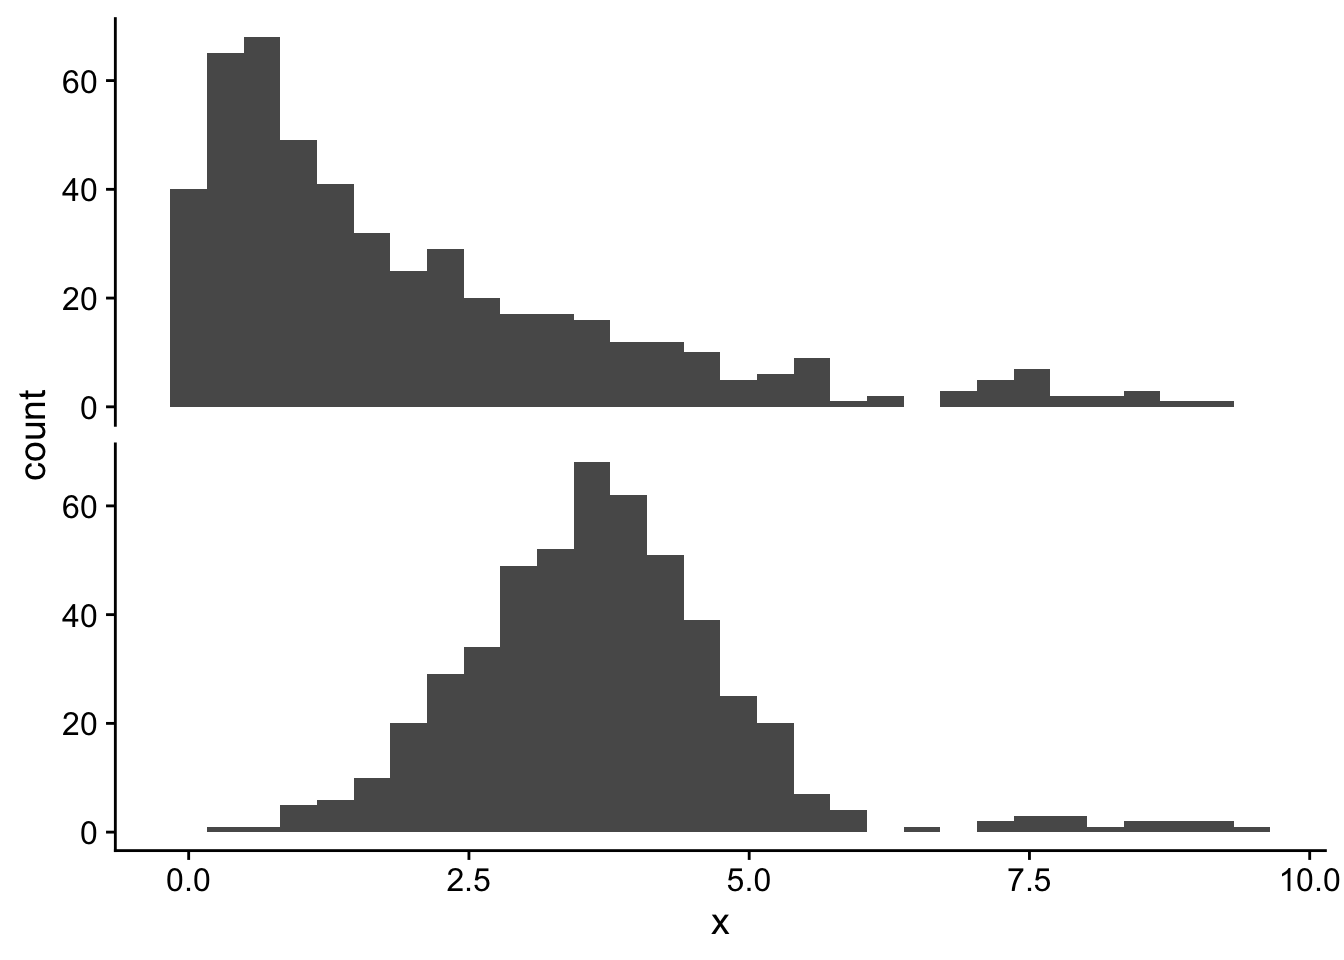
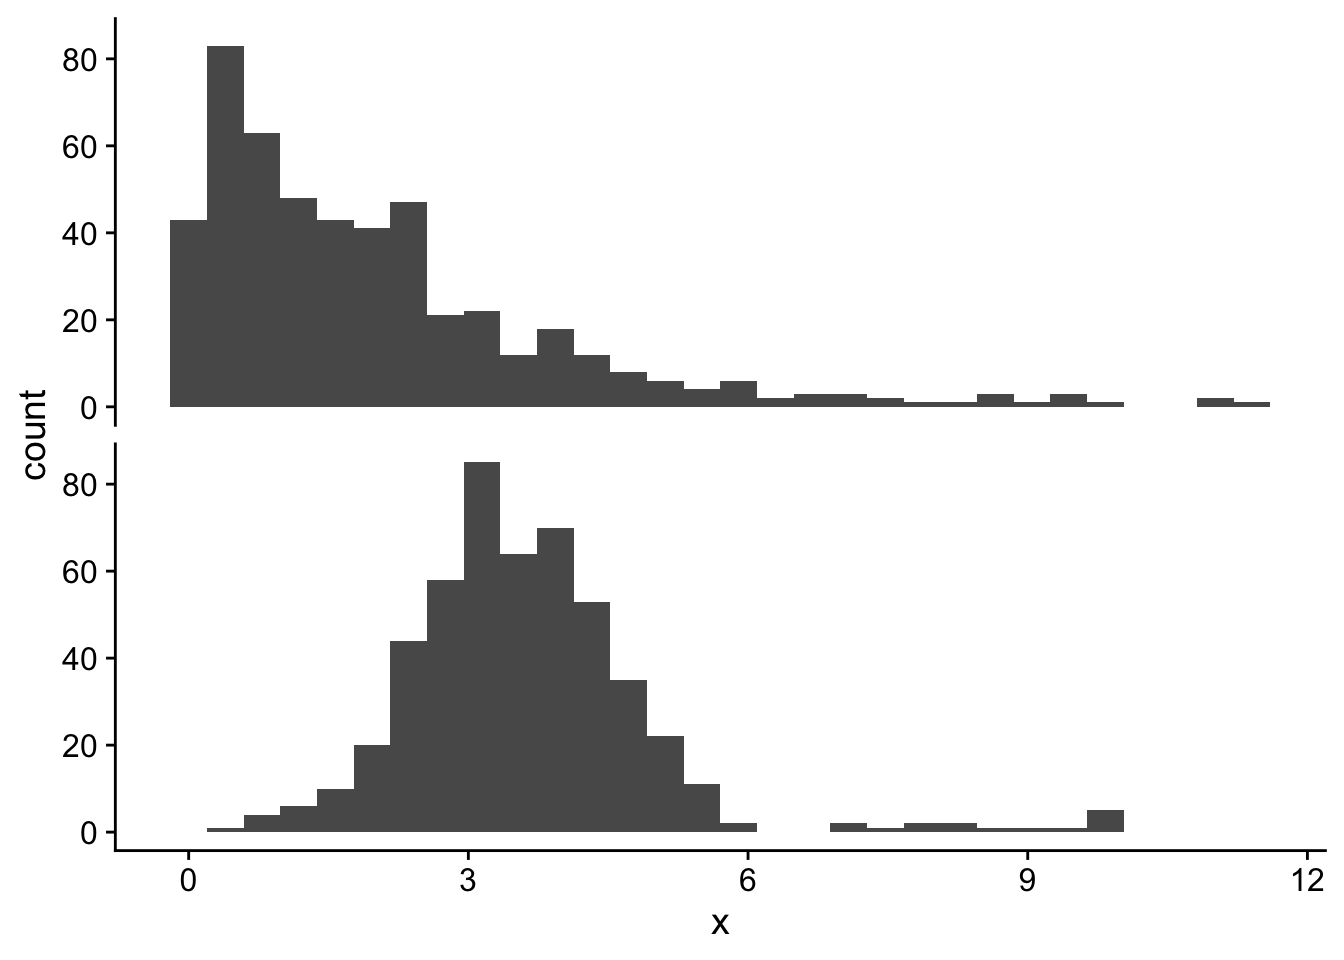
removing answer code

diff --git a/docs/lab06.html b/docs/lab06.html
@@ -192,9 +192,9 @@ pre > code.sourceCode > span > a:first-child::before { text-decoration: underlin
   <ul class="collapse">
   <li><a href="#describing-the-location-of-data" id="toc-describing-the-location-of-data" class="nav-link" data-scroll-target="#describing-the-location-of-data"><span class="header-section-number">6.2.1</span> Describing the <strong>location</strong> of data</a></li>
   <li><a href="#describing-the-spread-of-data" id="toc-describing-the-spread-of-data" class="nav-link" data-scroll-target="#describing-the-spread-of-data"><span class="header-section-number">6.2.2</span> Describing the <strong>spread</strong> of data</a></li>
+  <li><a href="#describing-our-confidence-in-estimates" id="toc-describing-our-confidence-in-estimates" class="nav-link" data-scroll-target="#describing-our-confidence-in-estimates"><span class="header-section-number">6.2.3</span> Describing our confidence in estimates</a></li>
   </ul></li>
-  <li><a href="#describing-our-confidence-in-estimates" id="toc-describing-our-confidence-in-estimates" class="nav-link" data-scroll-target="#describing-our-confidence-in-estimates"><span class="header-section-number">6.3</span> Describing our confidence in estimates</a></li>
-  <li><a href="#questions" id="toc-questions" class="nav-link" data-scroll-target="#questions"><span class="header-section-number">6.4</span> Questions</a></li>
+  <li><a href="#questions" id="toc-questions" class="nav-link" data-scroll-target="#questions"><span class="header-section-number">6.3</span> Questions</a></li>
   </ul>
 </nav>
     </div>
@@ -287,11 +287,11 @@ pre > code.sourceCode > span > a:first-child::before { text-decoration: underlin
 <span id="cb5-7"><a href="#cb5-7" aria-hidden="true" tabindex="-1"></a></span>
 <span id="cb5-8"><a href="#cb5-8" aria-hidden="true" tabindex="-1"></a><span class="fu">mean</span>(y2)</span></code><button title="Copy to Clipboard" class="code-copy-button"><i class="bi"></i></button></pre></div>
 <div class="cell-output cell-output-stdout">
-<pre><code>[1] 1.27</code></pre>
+<pre><code>[1] 2.244</code></pre>
 </div>
 <div class="sourceCode cell-code" id="cb7"><pre class="sourceCode r code-with-copy"><code class="sourceCode r"><span id="cb7-1"><a href="#cb7-1" aria-hidden="true" tabindex="-1"></a><span class="fu">median</span>(y2)</span></code><button title="Copy to Clipboard" class="code-copy-button"><i class="bi"></i></button></pre></div>
 <div class="cell-output cell-output-stdout">
-<pre><code>[1] 0.555</code></pre>
+<pre><code>[1] 1.965</code></pre>
 </div>
 </div>
 <p>The values are more distant. Let’s figure out why by making a histogram to look at the shape of the distribution of these data:</p>
@@ -401,8 +401,8 @@ s = \sqrt(s^2)
 <span id="cb24-2"><a href="#cb24-2" aria-hidden="true" tabindex="-1"></a>y2sorted <span class="ot">&lt;-</span> <span class="fu">sort</span>(y2)</span>
 <span id="cb24-3"><a href="#cb24-3" aria-hidden="true" tabindex="-1"></a>y2sorted</span></code><button title="Copy to Clipboard" class="code-copy-button"><i class="bi"></i></button></pre></div>
 <div class="cell-output cell-output-stdout">
-<pre><code> [1] 0.00 0.02 0.06 0.14 0.23 0.26 0.28 0.31 0.51 0.51 0.60 0.69 1.11 1.17 1.22
-[16] 1.88 2.77 3.10 4.39 6.15</code></pre>
+<pre><code> [1] 0.12 0.14 0.34 0.44 0.61 0.68 0.76 0.78 1.35 1.87 2.06 2.25 2.27 2.27 2.56
+[16] 3.57 4.25 4.54 5.49 8.53</code></pre>
 </div>
 <div class="sourceCode cell-code" id="cb26"><pre class="sourceCode r code-with-copy"><code class="sourceCode r"><span id="cb26-1"><a href="#cb26-1" aria-hidden="true" tabindex="-1"></a><span class="co"># now we figure out how many data points we're dealing with</span></span>
 <span id="cb26-2"><a href="#cb26-2" aria-hidden="true" tabindex="-1"></a><span class="fu">length</span>(y2sorted)</span></code><button title="Copy to Clipboard" class="code-copy-button"><i class="bi"></i></button></pre></div>
@@ -425,18 +425,18 @@ s = \sqrt(s^2)
 <span id="cb30-9"><a href="#cb30-9" aria-hidden="true" tabindex="-1"></a>iqr <span class="ot">&lt;-</span> <span class="fu">c</span>(q1, q3)</span>
 <span id="cb30-10"><a href="#cb30-10" aria-hidden="true" tabindex="-1"></a>iqr</span></code><button title="Copy to Clipboard" class="code-copy-button"><i class="bi"></i></button></pre></div>
 <div class="cell-output cell-output-stdout">
-<pre><code>[1] 0.245 1.550</code></pre>
+<pre><code>[1] 0.645 3.065</code></pre>
 </div>
 <div class="sourceCode cell-code" id="cb32"><pre class="sourceCode r code-with-copy"><code class="sourceCode r"><span id="cb32-1"><a href="#cb32-1" aria-hidden="true" tabindex="-1"></a><span class="co"># to calculate a single value describing the spread we can just calcualte</span></span>
 <span id="cb32-2"><a href="#cb32-2" aria-hidden="true" tabindex="-1"></a><span class="co"># the difference between those two values</span></span>
 <span id="cb32-3"><a href="#cb32-3" aria-hidden="true" tabindex="-1"></a>q3 <span class="sc">-</span> q1</span></code><button title="Copy to Clipboard" class="code-copy-button"><i class="bi"></i></button></pre></div>
 <div class="cell-output cell-output-stdout">
-<pre><code>[1] 1.305</code></pre>
+<pre><code>[1] 2.42</code></pre>
 </div>
 <div class="sourceCode cell-code" id="cb34"><pre class="sourceCode r code-with-copy"><code class="sourceCode r"><span id="cb34-1"><a href="#cb34-1" aria-hidden="true" tabindex="-1"></a><span class="co"># or...</span></span>
 <span id="cb34-2"><a href="#cb34-2" aria-hidden="true" tabindex="-1"></a><span class="fu">diff</span>(iqr)</span></code><button title="Copy to Clipboard" class="code-copy-button"><i class="bi"></i></button></pre></div>
 <div class="cell-output cell-output-stdout">
-<pre><code>[1] 1.305</code></pre>
+<pre><code>[1] 2.42</code></pre>
 </div>
 </div>
 <p>Notice that I called these values <code>q1</code> and <code>q3</code> that is because these are the first and third quartiles. The first quartile has 25% of the data below it, the third quartile has 25% of the data above it. Put another way, the third quartile has 75% of the data <em>below</em> it!</p>
@@ -445,15 +445,14 @@ s = \sqrt(s^2)
 <div class="sourceCode cell-code" id="cb36"><pre class="sourceCode r code-with-copy"><code class="sourceCode r"><span id="cb36-1"><a href="#cb36-1" aria-hidden="true" tabindex="-1"></a><span class="fu">quantile</span>(y2, <span class="at">type =</span> <span class="dv">2</span>, <span class="at">probs =</span> <span class="fu">c</span>(<span class="fl">0.25</span>, <span class="fl">0.75</span>))</span></code><button title="Copy to Clipboard" class="code-copy-button"><i class="bi"></i></button></pre></div>
 <div class="cell-output cell-output-stdout">
 <pre><code>  25%   75% 
-0.245 1.550 </code></pre>
+0.645 3.065 </code></pre>
 </div>
 </div>
 <p>We have to specify <code>type = 2</code> so that R takes the average of adjacent values when the sample size is even.</p>
 <p><strong>Note:</strong> if we were trying to compare <code>y1</code> and <code>y2</code> we would need to use the <strong>SAME</strong> metrics, we can’t compare the mean of one to the median of another, or the standard deviation of one to the interquartile range of another. The median and interquartile range work for <em>any</em> data, so in this case we should use the median and interquartile range for both <code>y1</code> and <code>y2</code> if we wanted to compare them.</p>
 </section>
-</section>
-<section id="describing-our-confidence-in-estimates" class="level2" data-number="6.3">
-<h2 data-number="6.3" class="anchored" data-anchor-id="describing-our-confidence-in-estimates"><span class="header-section-number">6.3</span> Describing our confidence in estimates</h2>
+<section id="describing-our-confidence-in-estimates" class="level3" data-number="6.2.3">
+<h3 data-number="6.2.3" class="anchored" data-anchor-id="describing-our-confidence-in-estimates"><span class="header-section-number">6.2.3</span> Describing our confidence in estimates</h3>
 <p>We calculated the mean of <code>y1</code> before:</p>
 <div class="cell">
 <div class="sourceCode cell-code" id="cb38"><pre class="sourceCode r code-with-copy"><code class="sourceCode r"><span id="cb38-1"><a href="#cb38-1" aria-hidden="true" tabindex="-1"></a>y1bar <span class="ot">&lt;-</span> <span class="fu">mean</span>(y1)</span>
@@ -486,8 +485,9 @@ SE = \frac{s}{\sqrt n}
 <p>In biology, the 95% confidence interval is most commonly used. In other fields different percentages (such as 90% or 99%) are also used.</p>
 <p>The interpretation of the 95% confidence interval is that 95% of the middle of the sampling distribution is contained within the upper and lower bounds of the 95% confidence interval. Have a look at the interactive website from our book for more explanation: <a href="https://www.zoology.ubc.ca/~whitlock/Kingfisher/CIMean.htm" class="uri">https://www.zoology.ubc.ca/~whitlock/Kingfisher/CIMean.htm</a></p>
 </section>
-<section id="questions" class="level2" data-number="6.4">
-<h2 data-number="6.4" class="anchored" data-anchor-id="questions"><span class="header-section-number">6.4</span> Questions</h2>
+</section>
+<section id="questions" class="level2" data-number="6.3">
+<h2 data-number="6.3" class="anchored" data-anchor-id="questions"><span class="header-section-number">6.3</span> Questions</h2>
 <ol type="1">
 <li>Fix the snippet of a script below:</li>
 </ol>
@@ -538,25 +538,6 @@ SE = \frac{s}{\sqrt n}
 <ol start="6" type="1">
 <li>Suppose that instead of the 500 data points we have for chinstraps we actually had 250 data points. Write some code to calculate how we might expect the SE and 95% CI to change. Hint: in this thought experiment, what value in the calculation of SE can you assume stays approximately constant, what value <em>must</em> change? Now do the same kind of calculation, but for the hypothetical case where we have twice as much data (so n = 1000). How do the smaller and larger sample size data sets compare the data we actually have?</li>
 </ol>
-<div class="cell">
-<div class="sourceCode cell-code" id="cb45"><pre class="sourceCode r code-with-copy"><code class="sourceCode r"><span id="cb45-1"><a href="#cb45-1" aria-hidden="true" tabindex="-1"></a><span class="co"># the case for half the data</span></span>
-<span id="cb45-2"><a href="#cb45-2" aria-hidden="true" tabindex="-1"></a>n_half <span class="ot">&lt;-</span> n <span class="sc">/</span> <span class="dv">2</span></span>
-<span id="cb45-3"><a href="#cb45-3" aria-hidden="true" tabindex="-1"></a>se_half <span class="ot">&lt;-</span> s <span class="sc">/</span> <span class="fu">sqrt</span>(n_half)</span>
-<span id="cb45-4"><a href="#cb45-4" aria-hidden="true" tabindex="-1"></a>ci95_half <span class="ot">&lt;-</span> <span class="fu">c</span>(ybar <span class="sc">-</span> <span class="dv">2</span> <span class="sc">*</span> se_half, ybar <span class="sc">+</span> <span class="dv">2</span> <span class="sc">*</span> se_half)</span>
-<span id="cb45-5"><a href="#cb45-5" aria-hidden="true" tabindex="-1"></a></span>
-<span id="cb45-6"><a href="#cb45-6" aria-hidden="true" tabindex="-1"></a>se_half</span>
-<span id="cb45-7"><a href="#cb45-7" aria-hidden="true" tabindex="-1"></a>ci95_half</span>
-<span id="cb45-8"><a href="#cb45-8" aria-hidden="true" tabindex="-1"></a></span>
-<span id="cb45-9"><a href="#cb45-9" aria-hidden="true" tabindex="-1"></a><span class="co"># the case for double the data</span></span>
-<span id="cb45-10"><a href="#cb45-10" aria-hidden="true" tabindex="-1"></a>n_double <span class="ot">&lt;-</span> n <span class="sc">*</span> <span class="dv">2</span></span>
-<span id="cb45-11"><a href="#cb45-11" aria-hidden="true" tabindex="-1"></a>se_double <span class="ot">&lt;-</span> s <span class="sc">/</span> <span class="fu">sqrt</span>(n_double)</span>
-<span id="cb45-12"><a href="#cb45-12" aria-hidden="true" tabindex="-1"></a>ci95_double <span class="ot">&lt;-</span> <span class="fu">c</span>(ybar <span class="sc">-</span> <span class="dv">2</span> <span class="sc">*</span> se_double, ybar <span class="sc">+</span> <span class="dv">2</span> <span class="sc">*</span> se_double)</span>
-<span id="cb45-13"><a href="#cb45-13" aria-hidden="true" tabindex="-1"></a></span>
-<span id="cb45-14"><a href="#cb45-14" aria-hidden="true" tabindex="-1"></a>se_double</span>
-<span id="cb45-15"><a href="#cb45-15" aria-hidden="true" tabindex="-1"></a>ci95_double</span>
-<span id="cb45-16"><a href="#cb45-16" aria-hidden="true" tabindex="-1"></a></span>
-<span id="cb45-17"><a href="#cb45-17" aria-hidden="true" tabindex="-1"></a><span class="co"># with less data the SE is bigger so the CI is wider, with more data the SE is smaller so the CI is more narrow</span></span></code><button title="Copy to Clipboard" class="code-copy-button"><i class="bi"></i></button></pre></div>
-</div>
 
 
 </section>

diff --git a/docs/lab04.html b/docs/lab04.html
@@ -246,11 +246,11 @@ pre > code.sourceCode > span > a:first-child::before { text-decoration: underlin
 <span id="cb1-4"><a href="#cb1-4" aria-hidden="true" tabindex="-1"></a>samp</span></code><button title="Copy to Clipboard" class="code-copy-button"><i class="bi"></i></button></pre></div>
 <div class="cell-output cell-output-stdout">
 <pre><code>  Sepal.Length Sepal.Width Petal.Length Petal.Width    Species
-1          5.8         2.6          4.0         1.2 versicolor
-2          5.2         2.7          3.9         1.4 versicolor
-3          6.0         3.4          4.5         1.6 versicolor
-4          5.5         2.6          4.4         1.2 versicolor
-5          5.9         3.2          4.8         1.8 versicolor</code></pre>
+1          5.0         3.5          1.3         0.3     setosa
+2          5.7         2.8          4.5         1.3 versicolor
+3          4.9         3.1          1.5         0.2     setosa
+4          5.1         3.8          1.9         0.4     setosa
+5          5.5         4.2          1.4         0.2     setosa</code></pre>
 </div>
 </div>
 <p>Now try on your to increase the sample size 10, how would you do this?</p>
@@ -272,12 +272,12 @@ pre > code.sourceCode > span > a:first-child::before { text-decoration: underlin
 # Groups:   replicate [2]
   replicate Sepal.Length Sepal.Width Petal.Length Petal.Width Species
       &lt;int&gt;        &lt;dbl&gt;       &lt;dbl&gt;        &lt;dbl&gt;       &lt;dbl&gt; &lt;fct&gt;  
-1         1          5           3.4          1.6         0.4 setosa 
-2         1          4.6         3.1          1.5         0.2 setosa 
-3         1          4.4         2.9          1.4         0.2 setosa 
-4         1          5.8         4            1.2         0.2 setosa 
-5         1          4.3         3            1.1         0.1 setosa 
-6         2          5.3         3.7          1.5         0.2 setosa </code></pre>
+1         1          5           3.3          1.4         0.2 setosa 
+2         1          4.8         3.1          1.6         0.2 setosa 
+3         1          4.4         3.2          1.3         0.2 setosa 
+4         1          5.4         3.7          1.5         0.2 setosa 
+5         1          5           3            1.6         0.2 setosa 
+6         2          5           3.5          1.3         0.3 setosa </code></pre>
 </div>
 </div>
 <p>Note: the <strong>infer</strong> package converted the <code>iris</code> data.frame to something called a <code>tibble</code>, for our purposes, think of a data.frame and a tibble as equivalent.</p>
